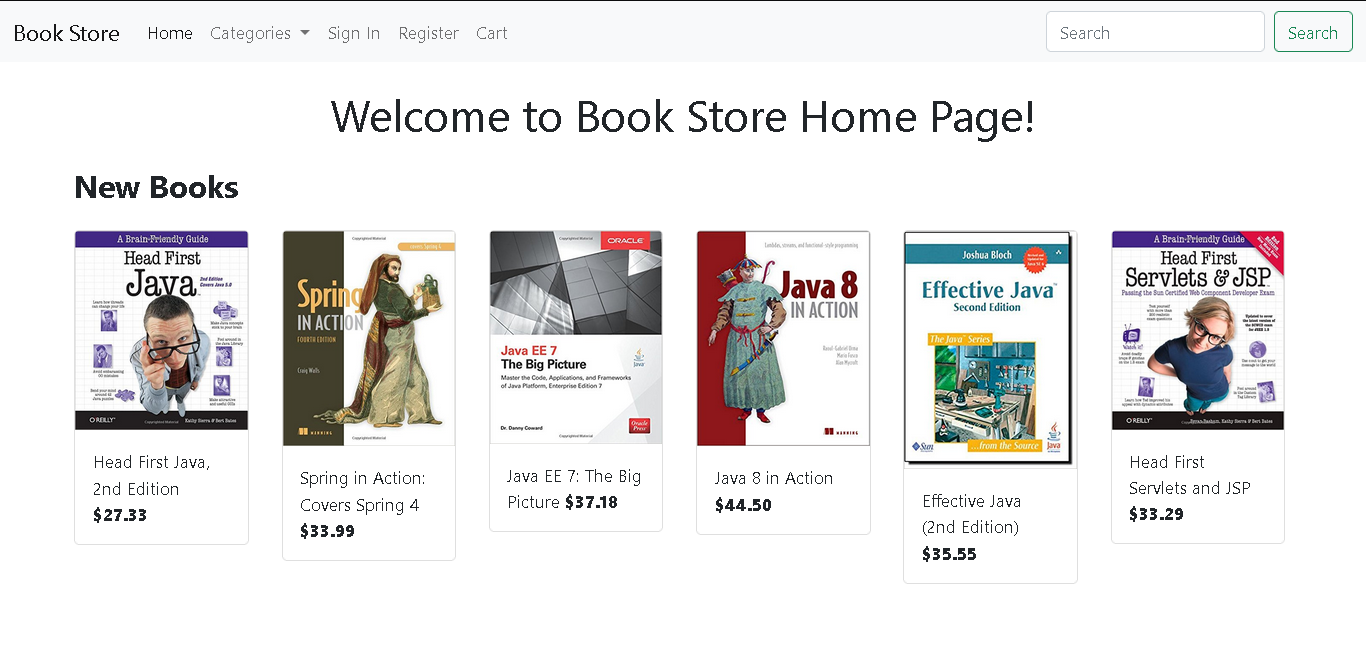
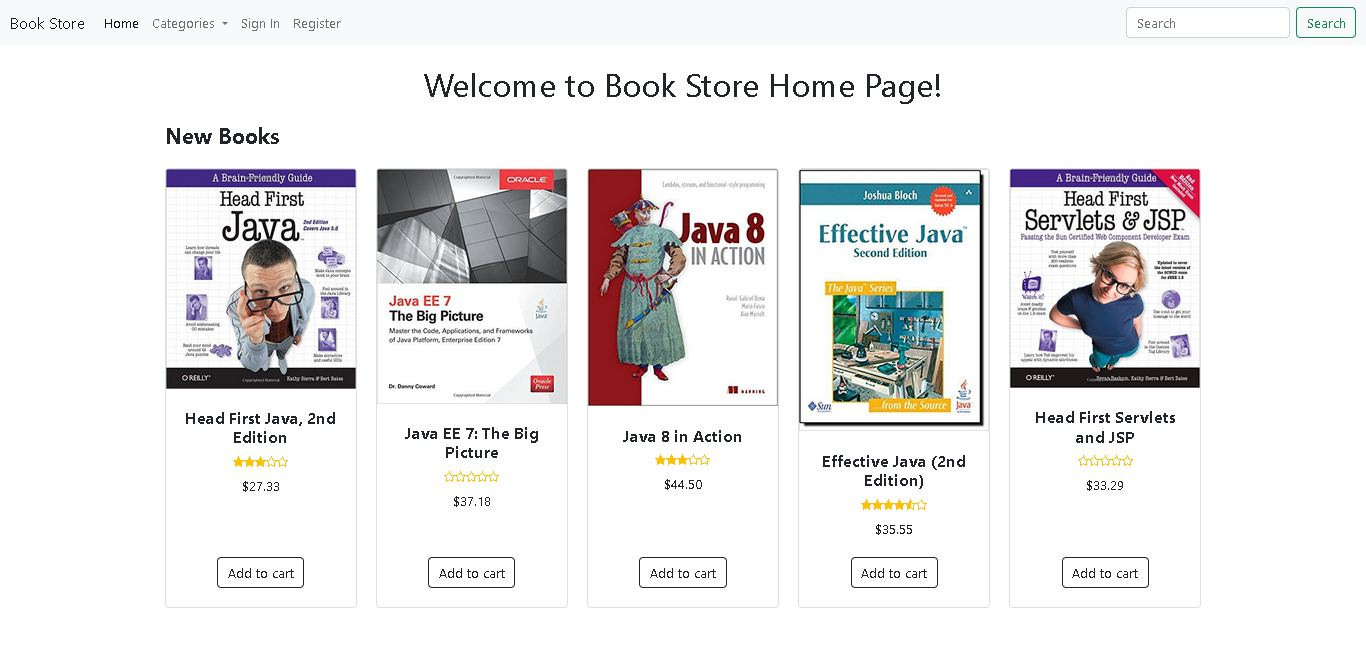
Implemented displaying book reviews on the signle book page and rating of books

diff --git a/src/com/bookstore/service/CustomerServices.java b/src/com/bookstore/service/CustomerServices.java
@@ -11,6 +11,7 @@ import javax.servlet.http.Part;
 
 import com.bookstore.dao.CustomerDao;
 import com.bookstore.dao.HashGenerator;
+import com.bookstore.dao.ReviewDao;
 import com.bookstore.entity.Book;
 import com.bookstore.entity.Customer;
 
@@ -96,9 +97,19 @@ public class CustomerServices {
 		Customer customer = customerDao.get(customerId);
 		
 		if(customer != null) {
-			customerDao.delete(customerId);
-			String message = "customer deleted successfully";
-			redirectingServices.redirectToWithMessage("/admin/list_customer", message);
+			ReviewDao reviewDao = new ReviewDao();
+			long reviews = reviewDao.countByCustomer(customerId);
+			if(reviews == 0) {
+				customerDao.delete(customerId);
+				String message = "customer deleted successfully";
+				this.request.setAttribute("message", message);
+				showCustomerTable();
+			} else{
+				String message = "Could not delete customer with ID " + customerId + " because he/she posted reviews for books'.";
+				this.request.setAttribute("message", message);
+				showCustomerTable();
+			}
+			
 		} else {
 			String message = "There is no customer with this id to delete";
 			redirectingServices.redirectToWithMessage("/admin/list_customer", message);
@@ -188,8 +199,6 @@ public class CustomerServices {
 		String address = this.request.getParameter("address");
 		String phone = this.request.getParameter("phone");
 		String zipcode = this.request.getParameter("zipcode");
-		
-		
 		
 		if(fullName != null && !(fullName.equals("")) ) {
 			customer.setFullname(fullName);

diff --git a/src/com/bookstore/entity/Review.java b/src/com/bookstore/entity/Review.java
@@ -15,6 +15,7 @@ import javax.persistence.NamedQuery;
 import javax.persistence.Table;
 import javax.persistence.Temporal;
 import javax.persistence.TemporalType;
+import javax.persistence.Transient;
 
 /**
  * Review generated by hbm2java
@@ -23,7 +24,9 @@ import javax.persistence.TemporalType;
 @Table(name = "review", catalog = "bookstoredb")
 @NamedQueries({
 	@NamedQuery(name="Review.listAll", query="SELECT r FROM Review r ORDER BY r.reviewTime"),
-	@NamedQuery(name="Review.count", query="SELECT count(*) FROM Review r")
+	@NamedQuery(name="Review.count", query="SELECT count(*) FROM Review r"),
+	@NamedQuery(name="Review.countByBook", query="SELECT count(r.reviewId) FROM Review r WHERE r.book.bookId = :bookId"),
+	@NamedQuery(name = "Review.countByCustomer", query = "SELECT COUNT(r.reviewId) FROM Review r WHERE r.customer.customerId = :customerId")
 })
 public class Review implements java.io.Serializable {
 
@@ -111,9 +114,26 @@ public class Review implements java.io.Serializable {
 	public Date getReviewTime() {
 		return this.reviewTime;
 	}
+	
 
 	public void setReviewTime(Date reviewTime) {
 		this.reviewTime = reviewTime;
+	}
+	
+	@Transient
+	public String getStars() {
+		StringBuilder stars = new StringBuilder("");
+		
+		for(int i = 0; i < this.rating; i++) {
+			stars.append("fill,"); 
+		}
+		
+		for(int i = this.rating; i < 5; i++) {
+			stars.append("empty,");
+		}
+		
+		return stars.toString().substring(0, stars.length() - 1);
+		
 	}
 
 }

diff --git a/test/com/bookstore/dao/BookDaoTest.java b/test/com/bookstore/dao/BookDaoTest.java
@@ -9,7 +9,9 @@ import java.text.DateFormat;
 import java.text.ParseException;
 import java.text.SimpleDateFormat;
 import java.util.Date;
+import java.util.HashSet;
 import java.util.List;
+import java.util.Set;
 
 import org.junit.AfterClass;
 import org.junit.BeforeClass;
@@ -17,6 +19,7 @@ import org.junit.Test;
 import javax.persistence.*;
 import com.bookstore.entity.Book;
 import com.bookstore.entity.Category;
+import com.bookstore.entity.Review;
 
 public class BookDaoTest{
 	private static BookDao bookDao;
@@ -133,6 +136,23 @@ public class BookDaoTest{
 		
 	}
 	
+	@Test
+	public void testCalcAvg() {
+		Set<Review> reviews = new HashSet<>();
+		Review review1 = new Review();
+		review1.setRating(5);
+		Review review2 = new Review();
+		review2.setRating(4);
+		
+		reviews.add(review1);reviews.add(review2);
+		
+		Book book = new Book();
+		book.setReviews(reviews);
+		float avg = book.calculateAverageReviews();
+		
+		assertTrue(avg == 4.5f);
+	}
+	
 	
 	@Test
 	public void testCreateBook() throws IOException, ParseException {
@@ -189,10 +209,17 @@ public class BookDaoTest{
 	}
 	
 	@Test
-	public void TestCountByCategory() {
+	public void testCountByCategory() {
 		long booksCount = bookDao.countByCategory(12);
 		
 		assertEquals(booksCount, 3);
 		
+	}
+	
+	@Test
+	public void testGetAvgRatingString() {
+		Book book = new Book();
+		String stars = book.getAvgRatingString(2.5f);
+		assertEquals(stars, "fill,fill,half,,");
 	}
 }

diff --git a/src/com/bookstore/entity/Book.java b/src/com/bookstore/entity/Book.java
@@ -185,7 +185,7 @@ public class Book implements java.io.Serializable {
 		this.lastUpdateTime = lastUpdateTime;
 	}
 
-	@OneToMany(fetch = FetchType.LAZY, mappedBy = "book")
+	@OneToMany(fetch = FetchType.EAGER, mappedBy = "book")
 	public Set<Review> getReviews() {
 		return this.reviews;
 	}
@@ -212,6 +212,50 @@ public class Book implements java.io.Serializable {
 	public void setBase64Image(String base64Image) {
 		this.base64Image = base64Image;
 	}
+	
+	@Transient
+	public float calculateAverageReviews() {
+		if(reviews.isEmpty()) {
+			return 0.0f;
+		}
+		float averageRating = 0.0f;
+		float sum = 0.0f;
+		for(Review review: reviews) {
+			sum += review.getRating();
+		}
+		averageRating = sum / reviews.size();
+		return averageRating;
+	}
+	
+	@Transient
+	public String getAvgRatingString(float avg) {
+		StringBuilder stars = new StringBuilder("");
+		int numOfStarsFill = (int) avg;
+		for(int i = 0; i < numOfStarsFill; i++) {
+			stars.append("fill,"); 
+		}
+		
+		if(numOfStarsFill < avg) {
+			stars.append("half,");
+		}
+		
+		for(int i = numOfStarsFill; i < 5; i++) {
+			stars.append("empty,");
+		}
+		
+		return stars.toString().substring(0, stars.length() - 1);
+		
+	}
+	
+	
+	
+	@Transient
+	public String getRatingString() {
+		float avg = calculateAverageReviews();
+		
+		return getAvgRatingString(avg);
+	}
+	
 
 	@Override
 	public int hashCode() {

diff --git a/src/com/bookstore/service/BookServices.java b/src/com/bookstore/service/BookServices.java
@@ -18,6 +18,7 @@ import javax.servlet.http.Part;
 
 import com.bookstore.dao.BookDao;
 import com.bookstore.dao.CategoryDao;
+import com.bookstore.dao.ReviewDao;
 import com.bookstore.entity.Book;
 import com.bookstore.entity.Category;
 
@@ -45,7 +46,7 @@ public class BookServices {
 	
 	public void showBookTable() throws ServletException, IOException {
 		this.request.setAttribute("books", this.listBooks());
-		
+	
 		String listPage = "book_list.jsp";
 		
 		redirectingServices.redirectTo(listPage);
@@ -158,7 +159,16 @@ public class BookServices {
 		int bookId = Integer.parseInt(this.request.getParameter("bookId"));
 		Book book = bookDao.get(bookId);
 		if(book != null) {
-			bookDao.delete(bookId);
+			ReviewDao reviewDao = new ReviewDao();
+			long reviews = reviewDao.countByBook(bookId);
+			if(reviews == 0) {
+				bookDao.delete(bookId);
+			} else {
+				String message = "book couldn't be deleted it has review associated with it.";
+				this.request.setAttribute("message", message);
+				showBookTable();
+			}
+			
 		} else {
 			this.request.setAttribute("message", "there is no book whit this id");
 			showBookTable();
